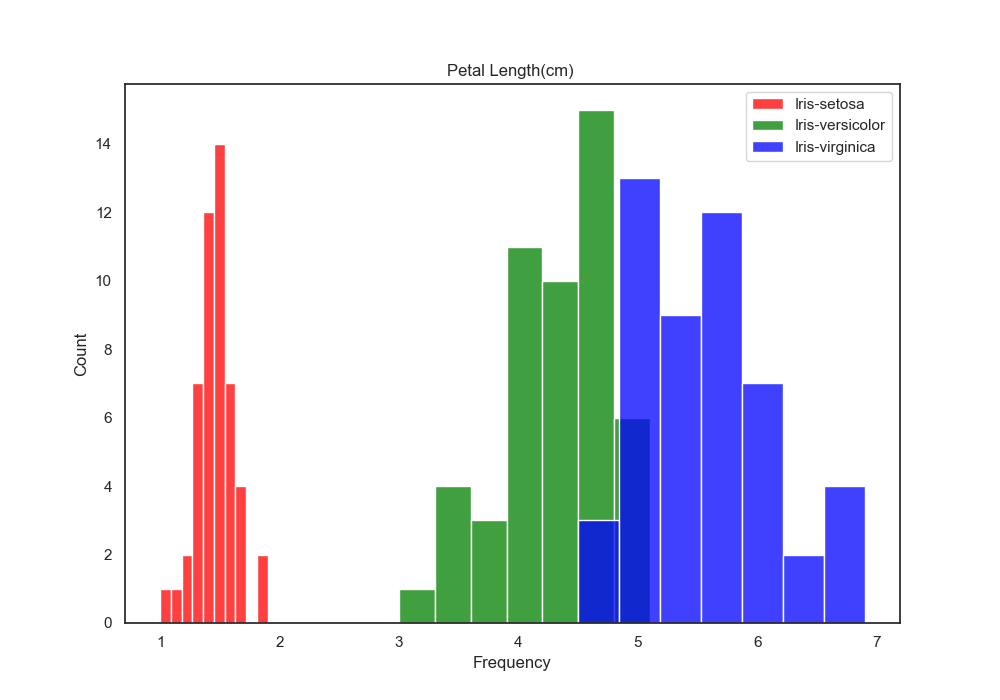
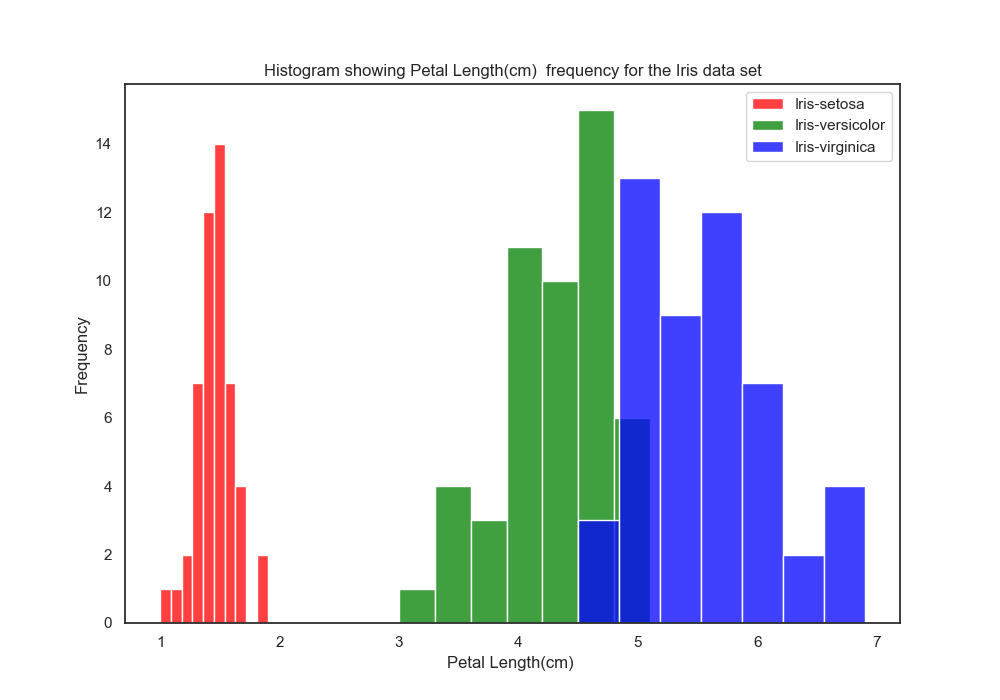
Adjusted title postions on scatter plots as it was getting cut off. Wrote different title for histogrames

Changed region(s): [[0.248, 0.09, 0.775, 0.12], [0.434, 0.93, 0.589, 0.96], [0.062, 0.45, 0.093, 0.57]]

diff --git a/analysis.py b/analysis.py
@@ -119,9 +119,10 @@ def create_var_hist(iris_df,f_action):
         sns.histplot(ir_vig[attr],  kde=False, label='Iris-virginica',color='blue')
             
         plt.legend()
-        plt.title(cleanLabel(attr))
+        hsTitle = ('Histogram showing {} frequency for the Iris data set').format(cleanLabel(attr))
+        plt.title(hsTitle)
         plt.xlabel(cleanLabel(attr) )
-        plt.xlabel('Frequency' )       
+        plt.ylabel('Frequency' )       
         
         if f_action =='view':
             plt.show()
@@ -134,12 +135,6 @@ def create_var_hist(iris_df,f_action):
 # menu choices 5 & 6
 #Create scatter plots for variable pair combination, 
 #=================================================================================
-# All possible pairs in List
-# Using combinations()
-varPairs = list(combinations(attributes, 2))
-print(varPairs)
-
-
 
 
 def  create_scatter_plots(iris_df,f_action):
@@ -147,23 +142,33 @@ def  create_scatter_plots(iris_df,f_action):
     # All possible pairs in List
     # Using combinations()
     varPairs = list(combinations(attributes, 2))
-    print(varPairs)
+    #print(varPairs)
+    #counter for file and title number
     i = 1
+    
+    #loop through each pair creating a scatter
+    #use seaborn facetgrid. pass dataframe, hue makes each species a different colour
     for y,x in varPairs:
         sns.FacetGrid(iris_df, hue='species', height=5,palette=IrisPallette) \
             .map(plt.scatter, y, x) \
             .add_legend() 
         #set title
-        sctTitle = str(i) +'. ' + y +' vs.' + x
+        sctTitle = str(i) +'. ' + y +' vs.' + x 
+        sctTitle = sctTitle.replace('(cm)','')
+        
         plt.title(sctTitle)
+        #adujst top of plot to prevent title being cut off.
+        plt.subplots_adjust(top=0.88)
         if f_action =='view':
             plt.show()
         elif f_action =='save':
             plt.savefig(sctTitle +'.png')
-        i =+1 
+        
+        i += 1 
+        #print (sctTitle)
 
     
-'''
+
 #=================================================================================
 # menu choices, 7 & 8
 #Create overall graphical summary, menu choices 7 & 8
@@ -204,11 +209,9 @@ def displayMenu():
     print("\t(3) View histogram for each variable")
     print("\t(4) Save histogram for each variable to png file")
     print("\t(5) View scatter plot for each variable pair comination")
-    print("\t(6) Save scatter plot for each variable pair comination to png file")
-    print("\t(7) View all box plots and histograms with species identified")
-    print("\t(8) Save all box plots and histograms with species identified")   
-    print("\t(9) View all scatter plots and histograms with species identified")
-    print("\t(10) Save all scatter plots and histograms with species identified")  
+    print("\t(6) Save scatter plot for each variable pair comination to png file")  
+    print("\t(7) View all scatter plots and histograms with species identified")
+    print("\t(8) Save all scatter plots and histograms with species identified")  
     print("\t(q) Quit")
     #get user choice
     choice = input("Select a choice from the above menu: ").strip()
@@ -222,7 +225,7 @@ def main():
 
     #call readCSV to get Iris dataset as dataframe
     iris_df=readCSV()
-    print(iris_df)
+    #print(iris_df)
     
     #call display menu function
     choice = str(displayMenu())    
@@ -250,22 +253,16 @@ def main():
         #6 Save scatter plot for each variable pair comination to png file
         elif choice == '6':
             create_scatter_plots(iris_df,'save')
-        #7 View box plot summary with species identified
-        elif choice == '7':
-            box_plot(iris_df,'view')
-        #8 Save box lot with species identified
-        elif choice == '8':
-            box_plot(iris_df,'save')
         #8 Save graphical with species identified
-        elif choice == '9':
+        elif choice == '7':
             grahical_summary(iris_df,'view')
         #10 Save graphical with species identified
-        elif choice == '10':
+        elif choice == '8':
             grahical_summary(iris_df,'save')
         else:
         #call dsiplay menu to get user choice
             print("Invalid input, plese input an option from the menu.")
-        print("here")
+        #print("here")
         choice=displayMenu()
 
             
